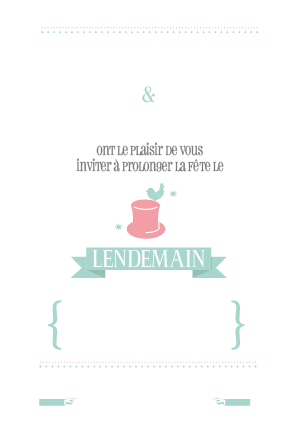
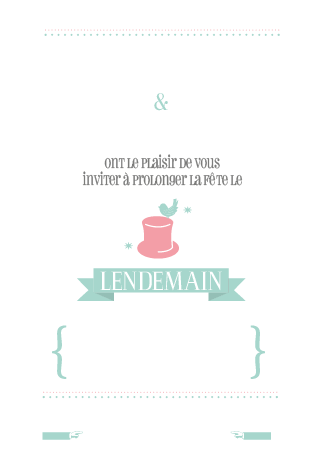
add ratio to fit html viewport size

diff --git a/scripts/main.jsx b/scripts/main.jsx
@@ -22,16 +22,23 @@ function main() {
           // doc
           doc = app.open(file, true);
 
+          // ratio to fit exactly in 920x475
+          var ratio = exportRatio(doc, 920, 475);
+
+          exportOriginal(doc, ratio, fileFolder+'/original.png');
+
           // bg
           exportBackground(doc, fileFolder+'/bg.png');
 
           var infos = {};
           //prefs
           infos.prefs = exportAppPrefs();
+          infos.prefs.ratio = ratio;
+
           // text
-          infos.texts = exportTexts(doc);
+          infos.texts = exportTexts(doc, ratio);
           // overlay
-          infos.overlay = exportOverlays(doc, fileFolder+'/overlay-placeholder');
+          infos.overlay = exportOverlays(doc, ratio, fileFolder+'/overlay-placeholder');
 
           writeJsonFile(fileFolder.fullName+'/data.json', JSON.stringify(infos));
 
@@ -39,7 +46,7 @@ function main() {
     }
 }
 
-function exportOverlays(doc, path) {
+function exportOverlays(doc, ratio, path) {
   var arr = [];
   doc.layers.everyItem().visible = false;
   var photoLayer =  doc.layers.itemByName('_photos');
@@ -50,10 +57,10 @@ function exportOverlays(doc, path) {
       rObj = {};
       bounds = photoLayer.rectangles[i].geometricBounds;
       rObj.bounds = {
-        x: bounds[1], 
-        y: bounds[0], 
-        width: bounds[3] - bounds[1],
-        height: bounds[2] - bounds[0]
+        x: bounds[1] *ratio, 
+        y: bounds[0] *ratio, 
+        width: (bounds[3] - bounds[1]) *ratio,
+        height: (bounds[2] - bounds[0]) *ratio
       };
 
       // $.writeln('photoLayer.rectangles i  : ', photoLayer.rectangles[i].images[0].itemLink.filePath);
@@ -79,7 +86,7 @@ function exportOverlays(doc, path) {
   return arr;
 }
 
-function exportTexts(doc) {
+function exportTexts(doc, ratio) {
   var arr = [];
   doc.layers.everyItem().visible = false;
   var textLayer =  doc.layers.itemByName('_textes');
@@ -94,10 +101,10 @@ function exportTexts(doc) {
       rObj.text =  escape(txtFrame.contents);
       bounds = txtFrame.geometricBounds;
       rObj.bounds = {
-        x: bounds[1], 
-        y: bounds[0], 
-        width: bounds[3] - bounds[1],
-        height: bounds[2] - bounds[0]
+        x: bounds[1] *ratio, 
+        y: bounds[0] *ratio, 
+        width: (bounds[3] - bounds[1]) *ratio,
+        height: (bounds[2] - bounds[0]) *ratio
       };
       // $.writeln('txtFrame fontStyle: ', txtFrame.textStyleRanges[0].fontStyle);
       // $.writeln('txtFrame appliedFont.fontFamily: ', txtFrame.texts[0].appliedFont.fontFamily);
@@ -114,7 +121,7 @@ function exportTexts(doc) {
       var hex = rgbToHex.apply(this, color.colorValue);
       rObj.fontFamily = txtFrame.texts[0].appliedFont.fontFamily;
       rObj.fontStyleName = txtFrame.texts[0].appliedFont.fontStyleName;
-      rObj.pointSize = txtFrame.texts[0].pointSize;
+      rObj.pointSize = txtFrame.texts[0].pointSize *ratio;
       rObj.verticalAlign = exportAlign(txtFrame.texts[0].characterAlignment);
       rObj.horizontalAlign = exportJustification(txtFrame.texts[0].justification);
       rObj.color = hex;
@@ -149,6 +156,13 @@ function exportJustification(justif) {
 // Justification.AWAY_FROM_BINDING_SIDE
 }
 
+function exportOriginal(doc, ratio, fullName) {
+  doc.layers.everyItem().visible = true;
+  if (!doc.saved) { doc.save(); }
+  alert('Preciser la resolution suivante [ '+ Math.round(ratio*72) +' ] dans la fenêtre d\'option d\'export');
+  doc.exportFile(ExportFormat.PNG_FORMAT , new File(fullName), true);
+}
+
 function exportBackground(doc, fullName) {
   // prefs d'export en 'read only'. Il faut faire un premiere export pour setter les paramètres désirés
   doc.layers.everyItem().visible = false;
@@ -160,6 +174,15 @@ function exportBackground(doc, fullName) {
   } else {
     return false;
   }
+}
+
+function exportRatio(doc, destW, destH) {
+  var origW = doc.pages[0].bounds[3];
+  var origH = doc.pages[0].bounds[2];
+  var destRatio = destW / destH;
+  var origRatio = origW / origH;
+  var scaleRatio = (origRatio < destRatio) ? ( destH / origH ) : ( destW / origW ) ;
+  return scaleRatio;
 }
 
 function exportAppPrefs() {
